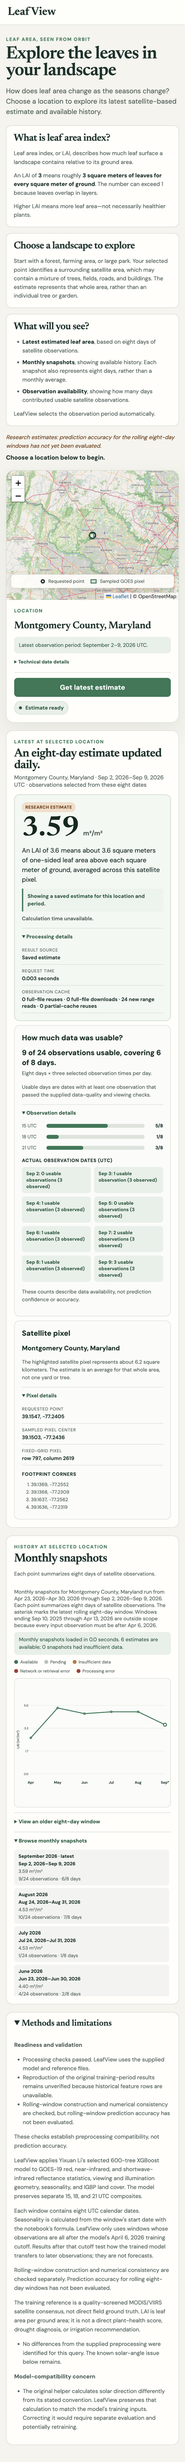
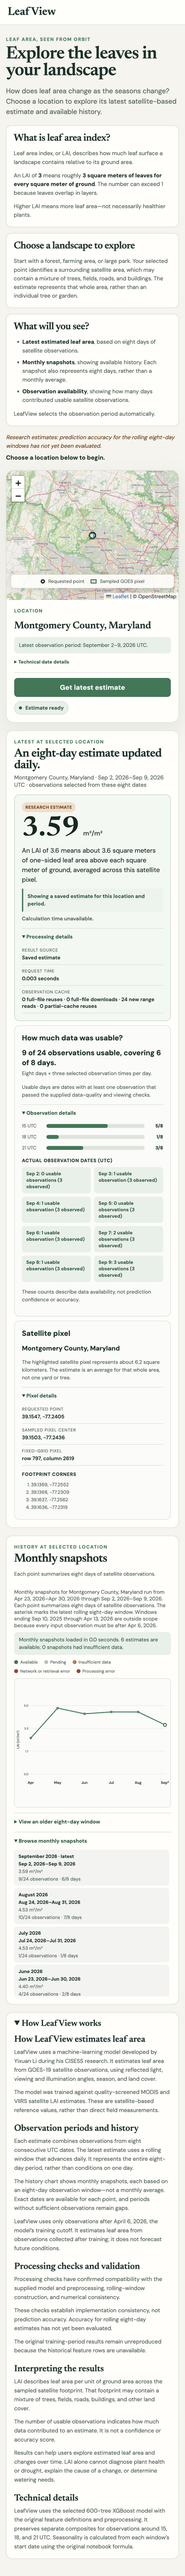
Explain how LeafView works

Changed region(s): [[0.0302, 0.0, 0.9674, 0.997]]

diff --git a/templates/index.html b/templates/index.html
@@ -164,18 +164,39 @@
     </section>
 
     <details class="methods">
-      <summary>Methods and limitations</summary>
+      <summary>How LeafView works</summary>
       <div class="methods-content">
-        <p><strong>Readiness and validation</strong></p>
-        <ul id="methods-readiness"><li>Checking installed assets and validation status…</li></ul>
-        <p>These checks establish preprocessing compatibility, not prediction accuracy.</p>
-        <p>LeafView applies Yixuan Li's selected 600-tree XGBoost model to GOES-19 red, near-infrared, and shortwave-infrared reflectance statistics, viewing and illumination geometry, seasonality, and IGBP land cover. The model preserves separate 15, 18, and 21 UTC composites.</p>
-        <p>Each window contains eight UTC calendar dates. Seasonality is calculated from the window's start date with the notebook's formula. LeafView only uses windows whose observations are all after the model's April 6, 2026 training cutoff. Results after that cutoff test how the trained model transfers to later observations; they are not forecasts.</p>
-        <p>Rolling-window construction and numerical consistency are checked separately. Prediction accuracy for rolling eight-day windows has not been evaluated.</p>
-        <p>The training reference is a quality-screened MODIS/VIIRS satellite consensus, not direct field ground truth. LAI is leaf area per ground area; it is not a direct plant-health score, drought diagnosis, or irrigation recommendation.</p>
-        <ul id="methods-limitations"></ul>
-        <p><strong>Model-compatibility concern</strong></p>
-        <ul id="methods-concerns"></ul>
+        <section>
+          <h3>How LeafView estimates leaf area</h3>
+          <p>LeafView uses a machine-learning model developed by Yixuan Li during his CISESS research. It estimates leaf area from GOES-19 satellite observations, using reflected light, viewing and illumination angles, season, and land cover.</p>
+          <p>The model was trained against quality-screened MODIS and VIIRS satellite LAI estimates. These are satellite-based reference values, rather than direct field measurements.</p>
+        </section>
+
+        <section>
+          <h3>Observation periods and history</h3>
+          <p>Each estimate combines observations from eight consecutive UTC dates. The latest estimate uses a rolling window that advances daily. It represents the entire eight-day period, rather than conditions on one day.</p>
+          <p>The history chart shows monthly snapshots, each based on an eight-day observation window—not a monthly average. Exact dates are available for each point, and periods without sufficient observations remain gaps.</p>
+          <p>LeafView uses only observations after April 6, 2026, the model’s training cutoff. It estimates leaf area from observations collected after training; it does not forecast future conditions.</p>
+        </section>
+
+        <section>
+          <h3>Processing checks and validation</h3>
+          <p>Processing checks have confirmed compatibility with the supplied model and preprocessing, rolling-window construction, and numerical consistency.</p>
+          <p>These checks establish implementation consistency, not prediction accuracy. Accuracy for rolling eight-day estimates has not yet been evaluated.</p>
+          <p>The original training-period results remain unreproduced because the historical feature rows are unavailable.</p>
+        </section>
+
+        <section>
+          <h3>Interpreting the results</h3>
+          <p>LAI describes leaf area per unit of ground area across the sampled satellite footprint. That footprint may contain a mixture of trees, fields, roads, buildings, and other land cover.</p>
+          <p>The number of usable observations indicates how much data contributed to an estimate. It is not a confidence or accuracy score.</p>
+          <p>Results can help users explore estimated leaf area and changes over time. LAI alone cannot diagnose plant health or drought, explain the cause of a change, or determine watering needs.</p>
+        </section>
+
+        <section>
+          <h3>Technical details</h3>
+          <p>LeafView uses the selected 600-tree XGBoost model with the original feature definitions and preprocessing. It preserves separate composites for observations around 15, 18, and 21 UTC. Seasonality is calculated from each window’s start date using the original notebook formula.</p>
+        </section>
       </div>
     </details>
   </main>

diff --git a/static/app.js b/static/app.js
@@ -93,8 +93,6 @@ const formatCalculationTimestamp = (value) => {
     timeZone: "UTC", timeZoneName: "short"
   }).format(timestamp);
 };
-const solarAngleExplanation = "The original helper calculates solar direction differently from its stated convention. LeafView preserves that calculation to match the model's training inputs. Correcting it would require separate evaluation and potentially retraining.";
-
 function sameLocation(left, right) {
   return Math.abs(left.latitude - right.latitude) < 0.0000005
     && Math.abs(left.longitude - right.longitude) < 0.0000005;
@@ -145,8 +143,6 @@ function resetResultPanel(message = "Loading the latest complete window for this
   byId("processing-diagnostics").open = false;
   byId("observation-details").open = false;
   byId("pixel-details").open = false;
-  byId("methods-limitations").replaceChildren();
-  byId("methods-concerns").replaceChildren();
 }
 
 function showEstimateState(label, state = "ready") {
@@ -263,17 +259,6 @@ function renderStatus(data) {
   historyDate.value = data.historical_date_range.maximum_end;
   byId("view-history-date").disabled = !dependenciesReady;
   byId("view-latest").disabled = !dependenciesReady;
-  const readiness = byId("methods-readiness");
-  readiness.replaceChildren();
-  [
-    data.preprocessing_validation.detail,
-    data.historical_numerical_reproduction.detail,
-    data.rolling_window_accuracy.detail
-  ].forEach(text => {
-    const item = document.createElement("li");
-    item.textContent = text;
-    readiness.append(item);
-  });
   byId("estimate").disabled = !dependenciesReady;
 }
 
@@ -378,31 +363,6 @@ function renderDiagnostics(record) {
   byId("observation-cache").textContent = parts.join(" · ");
 }
 
-function renderMethods(record) {
-  const limitations = byId("methods-limitations");
-  limitations.replaceChildren();
-  if (!record.limitations.length) {
-    const item = document.createElement("li");
-    item.textContent = "No differences from the supplied preprocessing were identified for this query. The known solar-angle issue below remains.";
-    limitations.append(item);
-  } else {
-    record.limitations.forEach(text => {
-      const item = document.createElement("li");
-      item.textContent = text;
-      limitations.append(item);
-    });
-  }
-  const concerns = byId("methods-concerns");
-  concerns.replaceChildren();
-  (record.scientific_concerns || []).forEach(text => {
-    const item = document.createElement("li");
-    item.textContent = text.toLowerCase().includes("solar azimuth")
-      ? solarAngleExplanation
-      : text;
-    concerns.append(item);
-  });
-}
-
 function renderResult(record, expected) {
   if (!queryMatchesRecord(record, expected)) return false;
   activeRecord = record;
@@ -425,12 +385,11 @@ function renderResult(record, expected) {
     byId("lai-explanation").textContent = `An LAI of ${Number(record.lai).toFixed(1)} means about ${Number(record.lai).toFixed(1)} square meters of one-sided leaf area above each square meter of ground, averaged across this satellite pixel.`;
   }
   byId("provisional-note").textContent = record.status.startsWith("provisional")
-    ? "This output has an unresolved preprocessing limitation; see Methods."
+    ? "This output has an unresolved preprocessing limitation."
     : "";
   renderSupport(record);
   renderFootprint(record);
   renderDiagnostics(record);
-  renderMethods(record);
   return true;
 }
 

diff --git a/static/app.css b/static/app.css
@@ -168,7 +168,10 @@ dd { margin: 3px 0 0; color: var(--ink); font-weight: 600; font-size: 12px; font
 .methods { padding: 0; overflow: hidden; }
 .methods > summary { cursor: pointer; padding: 18px 23px; color: var(--ink); font: 600 20px Newsreader, serif; }
 .methods-content { padding: 0 23px 20px; color: var(--muted); line-height: 1.6; font-size: 13px; max-width: 1000px; }
-.methods-content ul { padding-left: 20px; }
+.methods-content section + section { margin-top: 22px; }
+.methods-content h3 { margin: 0 0 8px; color: var(--ink); font: 600 21px Newsreader, serif; }
+.methods-content p { margin: 0 0 10px; }
+.methods-content p:last-child { margin-bottom: 0; }
 
 @media (max-width: 920px) {
   main { padding-inline: 20px; }

diff --git a/tests/test_core.py b/tests/test_core.py
@@ -326,7 +326,6 @@ def test_ui_uses_location_first_latest_estimate_and_query_bound_progressive_hist
     assert "latestPeriod.start" in source
     assert "Latest observation period:" in source
     assert "formatObservationPeriod" in source
-    assert 'byId("methods-concerns")' in source
     assert "preprocessing_discrepancies" in source
     assert 'fetch("/api/estimate"' in source
     assert "queryMatchesRecord" in source
@@ -352,8 +351,6 @@ def test_ui_uses_location_first_latest_estimate_and_query_bound_progressive_hist
     assert "historyObservationDates" in source
     assert "clearHistory" in source
     assert "Calculated using cached satellite observations." not in source
-    assert "No differences from the supplied preprocessing were identified for this query." in source
-    assert "The original helper calculates solar direction differently" in source
     assert "const ordered = [corners[0], corners[1], corners[3], corners[2]]" in source
     assert 'id="map-tile-message"' in template
     assert 'id="calculation-source"' in template
@@ -362,9 +359,16 @@ def test_ui_uses_location_first_latest_estimate_and_query_bound_progressive_hist
     assert 'id="processing-diagnostics"' in template
     assert 'id="observation-details"' in template
     assert 'id="pixel-details"' in template
-    assert "April 6, 2026 training cutoff" in template
-    assert "preprocessing compatibility, not prediction accuracy" in template
-    assert "not a direct plant-health score" in template
+    assert "April 6, 2026, the model’s training cutoff" in template
+    assert "How LeafView works" in template
+    assert "How LeafView estimates leaf area" in template
+    assert "Observation periods and history" in template
+    assert "Processing checks and validation" in template
+    assert "Interpreting the results" in template
+    assert "Technical details" in template
+    assert "implementation consistency, not prediction accuracy" in template
+    assert "LAI alone cannot diagnose plant health or drought" in template
+    assert "Methods and limitations" not in template
     assert "An eight-day estimate updated daily." in template
     assert "Explore the leaves in your landscape" in template
     assert "What is leaf area index?" in template
@@ -381,7 +385,6 @@ def test_ui_uses_location_first_latest_estimate_and_query_bound_progressive_hist
     assert "Each point summarizes eight days of satellite observations." in template
     assert "Network or retrieval error" in template
     assert "Network or retrieval error" in source
-    assert "Prediction accuracy for rolling eight-day windows has not been evaluated." in template
     assert "Calculation time unavailable." in source
     assert 'showEstimateState("Estimate ready")' in source
     assert "Binding this result to the selected location and UTC dates" not in source
